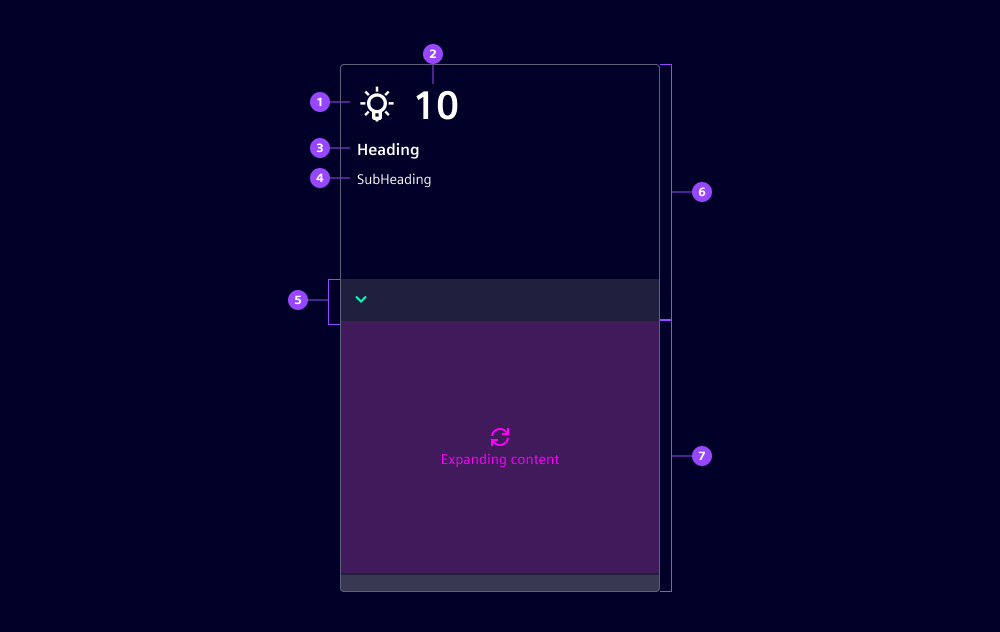
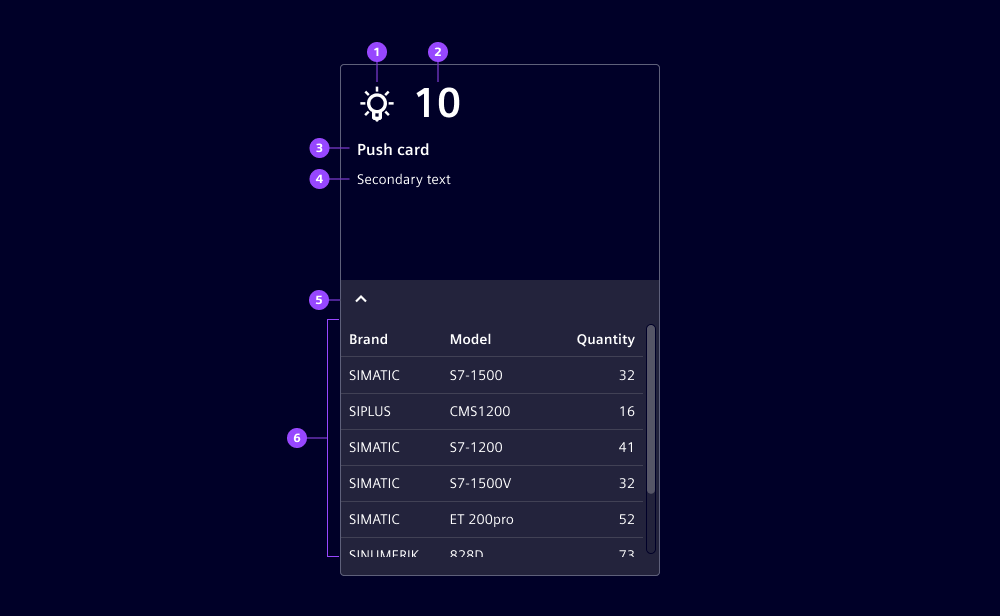
Update card guide images and improve documentation
Replaced and added new Figma illustration links in the card component guide for better clarity. Updated and added corresponding image assets in the static/figma directory. Also clarified card placement guidance in the documentation.

diff --git a/docs/components/card/guide.md b/docs/components/card/guide.md
@@ -10,16 +10,20 @@ We offer three types of cards:
 2. **Action cards:** Use to trigger key actions, similar to [buttons](../button).
 3. **Push cards:** Use to display notifications and additional content related to the notification value.
 
-![Card overview](https://www.figma.com/design/tfahbu7mmoTEDYYFYE2XmB/Update-card?node-id=7006-24531&t=ezJ14BAYO4fXC1jm-4)
+![Card - anatomy](https://www.figma.com/design/wEptRgAezDU1z80Cn3eZ0o/iX-Documentation-illustrations?node-id=7006-24531&t=jxTcJOGghqA7qt1M-4)
 
 **Card**
 1. Card container
 2. Card content
 
+![Action card - anatomy](https://www.figma.com/design/wEptRgAezDU1z80Cn3eZ0o/iX-Documentation-illustrations?node-id=7007-858&t=jxTcJOGghqA7qt1M-11)
+
 **Action card**
 1. Icon
 2. Heading
 3. Subheading
+
+![Push card - anatomy](https://www.figma.com/design/wEptRgAezDU1z80Cn3eZ0o/iX-Documentation-illustrations?node-id=858-4956&t=jxTcJOGghqA7qt1M-4)
 
 **Push card**
 1. Icon
@@ -67,7 +71,7 @@ Each variant emphasizes different aspects to guide the user's attention. These v
 	- By default, cards have a fixed width and height. However, content overflow is not managed automatically, so the card size must be manually adjusted.
 	- Action cards have a default width and height which can be adjusted to fit nicely in layouts.
 	- Push cards have a fixed height and a default width. The width can be adjusted as needed.
-- **Placement:** We typically group cards and position them in the top-left corner of the page or content area. Within the group, cards can be organized into lists or grids using [card lists](../card-list).
+- **Placement:** We typically group cards using [grids](../layout-grid) or [card lists](../card-list) and position them in the top-left of their container.
 
 ![Card examples](https://www.figma.com/design/wEptRgAezDU1z80Cn3eZ0o/iX-Pattern-Illustrations?type=design&node-id=1329-26613&mode=design&t=sOZRNgWt7R52iLSF-1)
 ## States
